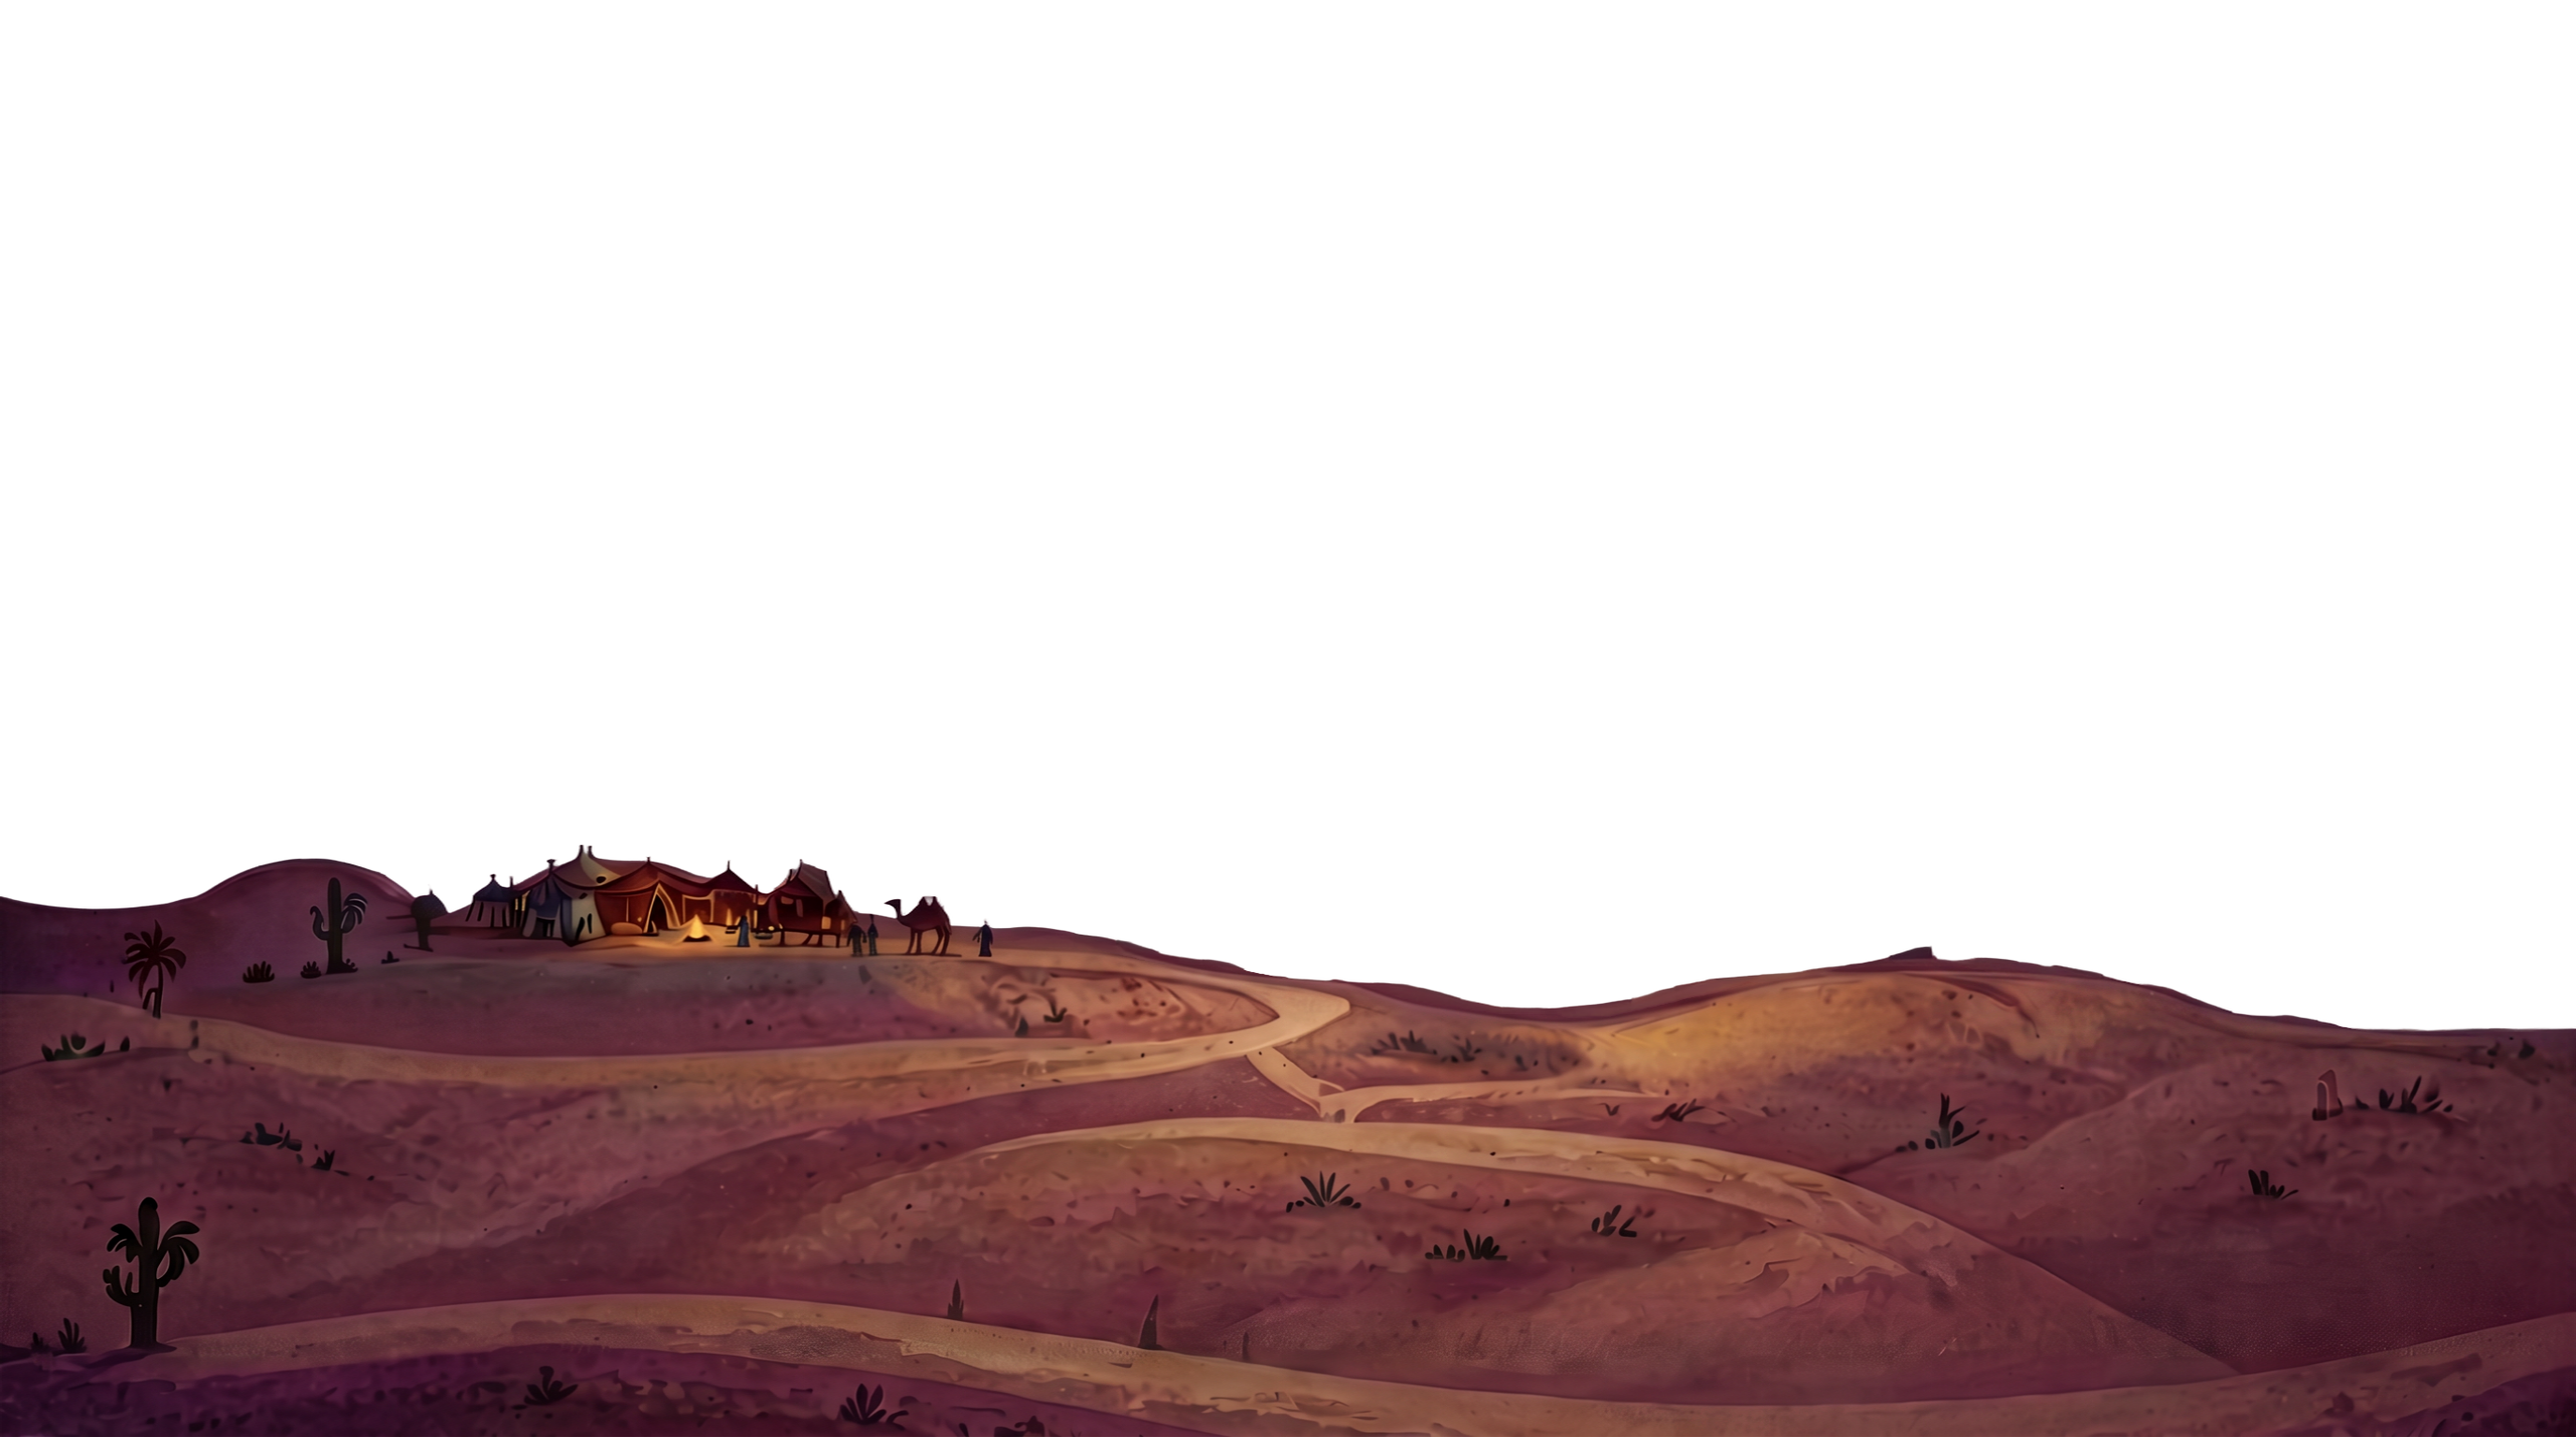
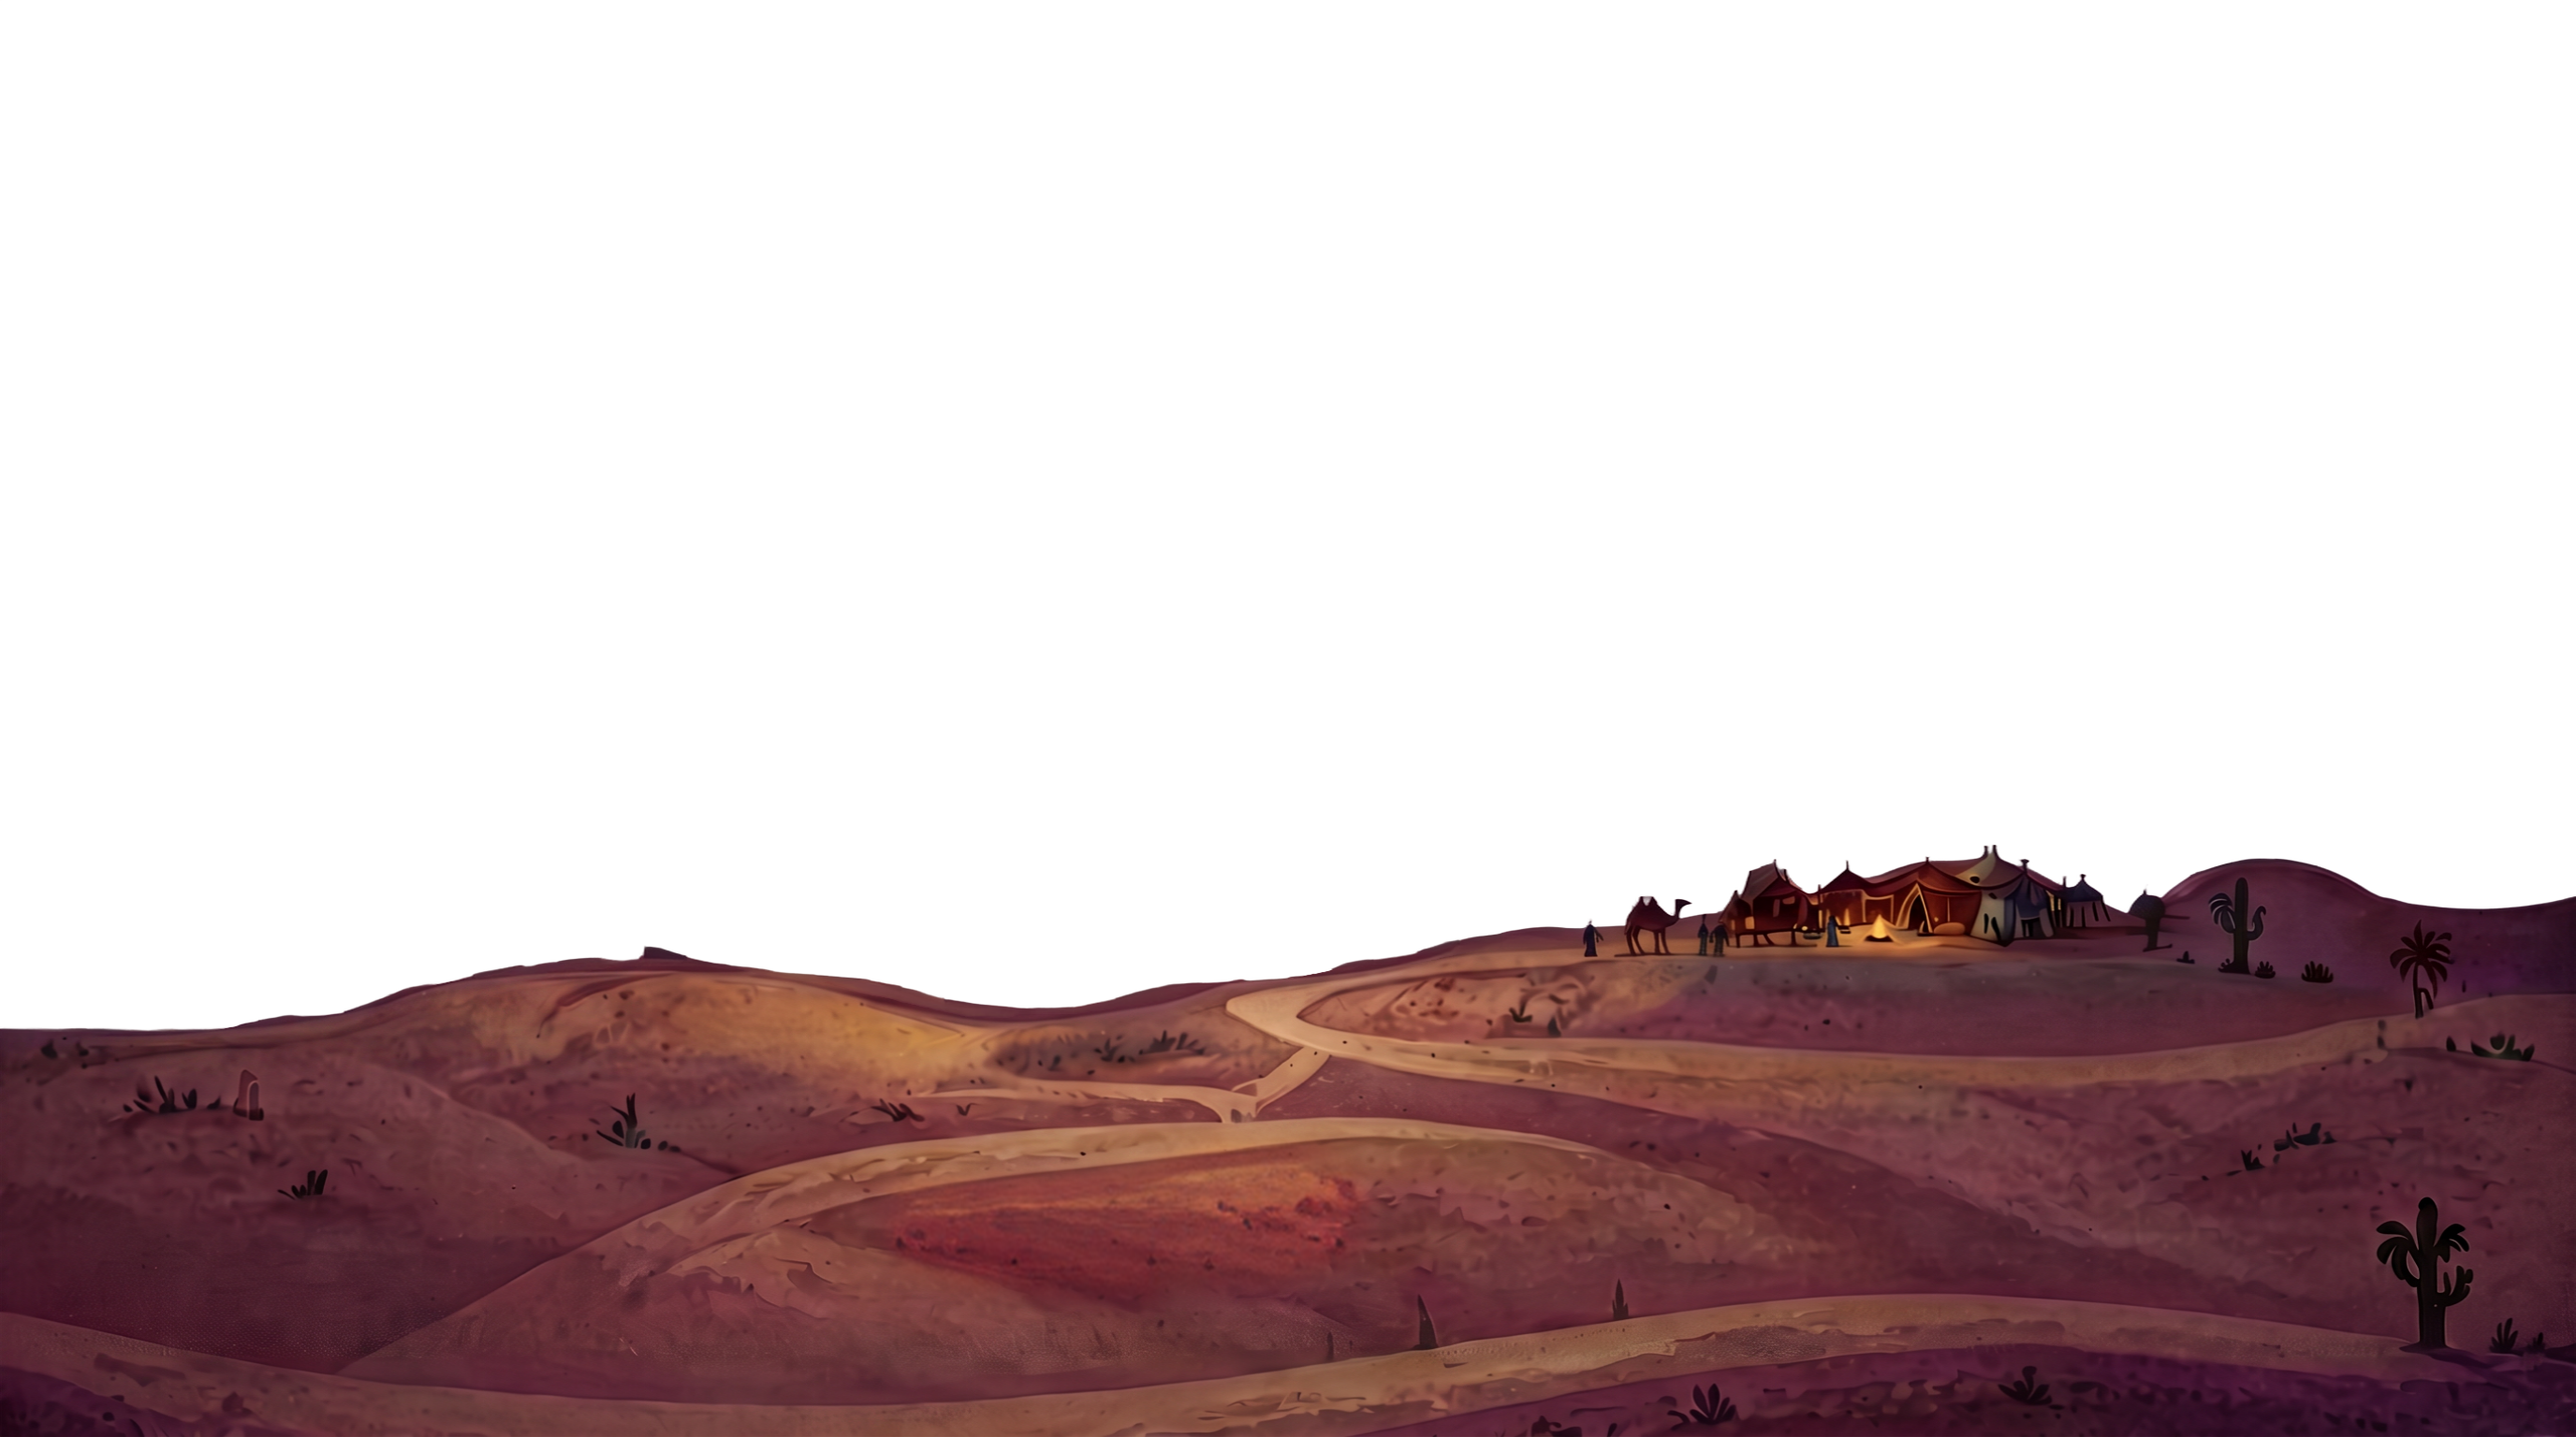
fixed

Changed region(s): [[0.0, 0.5938, 1.0, 1.0], [0.8125, 0.8438, 0.8438, 0.875], [0.1562, 0.8438, 0.1875, 0.875]]

diff --git a/src/pages/Preloader.tsx b/src/pages/Preloader.tsx
@@ -7,10 +7,8 @@ interface PreloaderProps {
 }
 
 const TEXT_LINES = [
-  "The Desert has one Rule",
-  "It does not open for everyone",
-  "But the Lamps are lit Tonight",
-  "And the Oasis is expecting You"
+  "lorem ipsum dolore sel ami",
+  "lorem ipsum dolore sel ami",
 ];
 
 // Timings (ms) — tune these to taste
@@ -28,7 +26,7 @@ export default function Preloader({
   onEnter,
 }: PreloaderProps) {
   const [loaded, setLoaded] = useState(false);
-  const [activeGroup, setActiveGroup] = useState(0);
+  const [activeLine, setActiveLine] = useState(0);
   const [phase, setPhase] = useState<Phase>("in");
   const [sequenceDone, setSequenceDone] = useState(false);
 
@@ -56,68 +54,60 @@ export default function Preloader({
     });
   }, [assets]);
 
-  // Cinematic 2-line group fade + glow sequence
-useEffect(() => {
-  let cancelled = false;
-  const timeouts: ReturnType<typeof setTimeout>[] = [];
+  // Cinematic line-by-line fade + glow sequence
+  useEffect(() => {
+    let cancelled = false;
+    const timeouts: ReturnType<typeof setTimeout>[] = [];
 
-  const wait = (ms: number) =>
-    new Promise<void>((resolve) => {
-      const t = setTimeout(resolve, ms);
-      timeouts.push(t);
-    });
+    const wait = (ms: number) =>
+      new Promise<void>((resolve) => {
+        const t = setTimeout(resolve, ms);
+        timeouts.push(t);
+      });
 
-  const run = async () => {
-    const groups = [
-      [0, 1],
-      [2, 3],
-    ];
+    const run = async () => {
+      for (let i = 0; i < TEXT_LINES.length; i++) {
+        if (cancelled) return;
+        setActiveLine(i);
+        setPhase("in");
 
-    for (let i = 0; i < groups.length; i++) {
-      if (cancelled) return;
+        await wait(FADE_IN);
+        if (cancelled) return;
 
-      setActiveGroup(i);
-      setPhase("in");
+        await wait(GLOW_DELAY);
+        if (cancelled) return;
+        setPhase("glow");
 
-      await wait(FADE_IN);
-      if (cancelled) return;
+        await wait(GLOW_IN);
+        if (cancelled) return;
+        setPhase("hold");
 
-      await wait(GLOW_DELAY);
-      if (cancelled) return;
+        await wait(HOLD);
+        if (cancelled) return;
+        setPhase("out");
 
-      setPhase("glow");
+        await wait(FADE_OUT);
+        if (cancelled) return;
 
-      await wait(GLOW_IN);
-      if (cancelled) return;
-
-      setPhase("hold");
-
-      await wait(HOLD);
-      if (cancelled) return;
-
-      setPhase("out");
-
-      await wait(FADE_OUT);
-      if (cancelled) return;
-
-      if (i < groups.length - 1) {
-        await wait(GAP);
+        if (i < TEXT_LINES.length - 1) {
+          await wait(GAP);
+        }
       }
-    }
 
-    if (!cancelled) {
-      setPhase("done");
-      setSequenceDone(true);
-    }
-  };
+      if (!cancelled) {
+        setPhase("done");
+        setSequenceDone(true);
+      }
+    };
 
-  run();
+    run();
 
-  return () => {
-    cancelled = true;
-    timeouts.forEach(clearTimeout);
-  };
-}, []);
+    return () => {
+      cancelled = true;
+      timeouts.forEach(clearTimeout);
+    };
+  }, []);
+
   // Once assets are loaded and the text sequence has finished, move on.
   useEffect(() => {
     if (loaded && sequenceDone) {
@@ -134,8 +124,7 @@ useEffect(() => {
 
       <div className={styles.content}>
         {TEXT_LINES.map((line, index) => {
-          const group = Math.floor(index / 2);
-          const isActive = group === activeGroup && phase !== "done";
+          const isActive = index === activeLine && phase !== "done";
           const pathId = `preloader-path-${index}`;
 
           return (
@@ -145,7 +134,8 @@ useEffect(() => {
                 isActive ? styles[`phase-${phase}`] : ""
               }`}
               viewBox="0 0 1000 120"
-              style={{ display: isActive ? "block" : "none" }}              >
+              style={{ display: index === activeLine ? "block" : "none" }}
+            >
               <defs>
                 {/* Slight arc for a title-card feel; use
                     "M 50 60 L 950 60" for a dead-straight line instead */}

diff --git a/src/pages/Home.tsx b/src/pages/Home.tsx
@@ -47,7 +47,7 @@ const CLOUDS_MOBILE: Cloud[] = [
   { src: cloudSmall, top: "38%", left: "60%", width: "40%", duration: 180 },
   { src: cloudBig, top: "5%", left: "85%", width: "55%", duration: 380 },
 ];
-const bgImg = window.innerWidth < 650 ? sandMob : sandImg
+const bgImg = window.innerWidth < 650 ? sandMob : sandImg;
 const MOON_CLOUD_TINT =
   "brightness(0.35) sepia(1) hue-rotate(20deg) saturate(5)";
 
@@ -255,18 +255,65 @@ export default function Home() {
           xmlns="http://www.w3.org/2000/svg"
           preserveAspectRatio="xMidYMid meet"
         >
-          <image href={bgPath} x="0" y="0" width="110" height="100" className={styles.socialLink} />
-          <a href="https://www.instagram.com/bitsoasis/" target="_blank" rel="noreferrer">
-            <image href={instagramIcon} x="43" y="68" width="12" height="12" className={styles.socialLink} />
+          <image
+            href={bgPath}
+            x="0"
+            y="0"
+            width="110"
+            height="100"
+            className={styles.socialLink}
+          />
+          <a
+            href="https://www.instagram.com/bitsoasis/"
+            target="_blank"
+            rel="noreferrer"
+          >
+            <image
+              href={instagramIcon}
+              x="43"
+              y="68"
+              width="12"
+              height="12"
+              className={styles.socialLink}
+            />
           </a>
-          <a href="https://www.linkedin.com/company/oasis24-bits-pilani/" target="_blank" rel="noreferrer">
-            <image href={LinkdinIcon} x="87" y="46" width="12" height="12" className={styles.socialLink} />
+          <a
+            href="https://www.linkedin.com/company/oasis24-bits-pilani/"
+            target="_blank"
+            rel="noreferrer"
+          >
+            <image
+              href={LinkdinIcon}
+              x="87"
+              y="46"
+              width="12"
+              height="12"
+              className={styles.socialLink}
+            />
           </a>
           <a href="" target="_blank" rel="noreferrer">
-            <image href={youtubeIcon} x="53" y="25" width="12" height="12" className={styles.socialLink} />
+            <image
+              href={youtubeIcon}
+              x="53"
+              y="25"
+              width="12"
+              height="12"
+              className={styles.socialLink}
+            />
           </a>
-          <a href="https://www.linkedin.com/company/oasis24-bits-pilani/" target="_blank" rel="noreferrer">
-            <image href={twitterIcon} x="1" y="23" width="12" height="12" className={styles.socialLink} />
+          <a
+            href="https://www.linkedin.com/company/oasis24-bits-pilani/"
+            target="_blank"
+            rel="noreferrer"
+          >
+            <image
+              href={twitterIcon}
+              x="1"
+              y="23"
+              width="12"
+              height="12"
+              className={styles.socialLink}
+            />
           </a>
         </svg>
       </div>

diff --git a/src/components/pageTransition/PageTransition.tsx b/src/components/pageTransition/PageTransition.tsx
@@ -403,10 +403,19 @@ const PageTransition = forwardRef<PageTransitionHandle, PageTransitionProps>(
             xPercent?: number;
             yPercent?: number;
           },
+          // CHANGED: extra static transform props (e.g. scaleX: -1) that
+          // must ride along on every gsap.set call. GSAP writes transforms
+          // to the element's inline style, which fully replaces — not
+          // merges with — any transform declared in CSS (like the sand's
+          // `transform: scaleX(-1)` mirror). Without re-asserting it here
+          // on every tick, the first onUpdate call wipes the mirror and
+          // the sand visibly "unflips" the instant the transition starts.
+          extraTransform?: Record<string, number>,
         ) => {
           gsap.set(el, {
             willChange: "transform",
             ...(basePercent ?? {}),
+            ...(extraTransform ?? {}),
           });
 
           const state = { p: 0 };
@@ -429,6 +438,7 @@ const PageTransition = forwardRef<PageTransitionHandle, PageTransitionProps>(
                   x,
                   rotation: rot,
                   ...(basePercent ?? {}),
+                  ...(extraTransform ?? {}),
                 });
               },
             },
@@ -459,11 +469,19 @@ const PageTransition = forwardRef<PageTransitionHandle, PageTransitionProps>(
           );
         }
 
+        // CHANGED: pass scaleX: -1 through so the sand's CSS mirror
+        // (`transform: scaleX(-1)` in Home.module.scss) survives every
+        // gsap.set call during the sink — previously this was the one
+        // caller with no extraTransform, so the very first onUpdate wrote
+        // a transform without the mirror and the sand visibly flipped and
+        // jumped the instant a nav link was clicked.
         if (sandEl) {
           applyDrown(
             sandEl,
             FOREGROUND_DURATION,
             SINK_DISTANCE * 0.02,
+            undefined,
+            { scaleX: -1 },
           );
         }
 

diff --git a/src/styles/Home.module.scss b/src/styles/Home.module.scss
@@ -43,7 +43,6 @@
   width: 100%;
   height: 100%;
   z-index: 3;
-  transform: scaleX(-1);
   overflow: hidden;;
 }
 

diff --git a/src/styles/Home.module.css b/src/styles/Home.module.css
@@ -42,7 +42,6 @@
   width: 100%;
   height: 100%;
   z-index: 3;
-  transform: scaleX(-1);
   overflow: hidden;
 }
 
